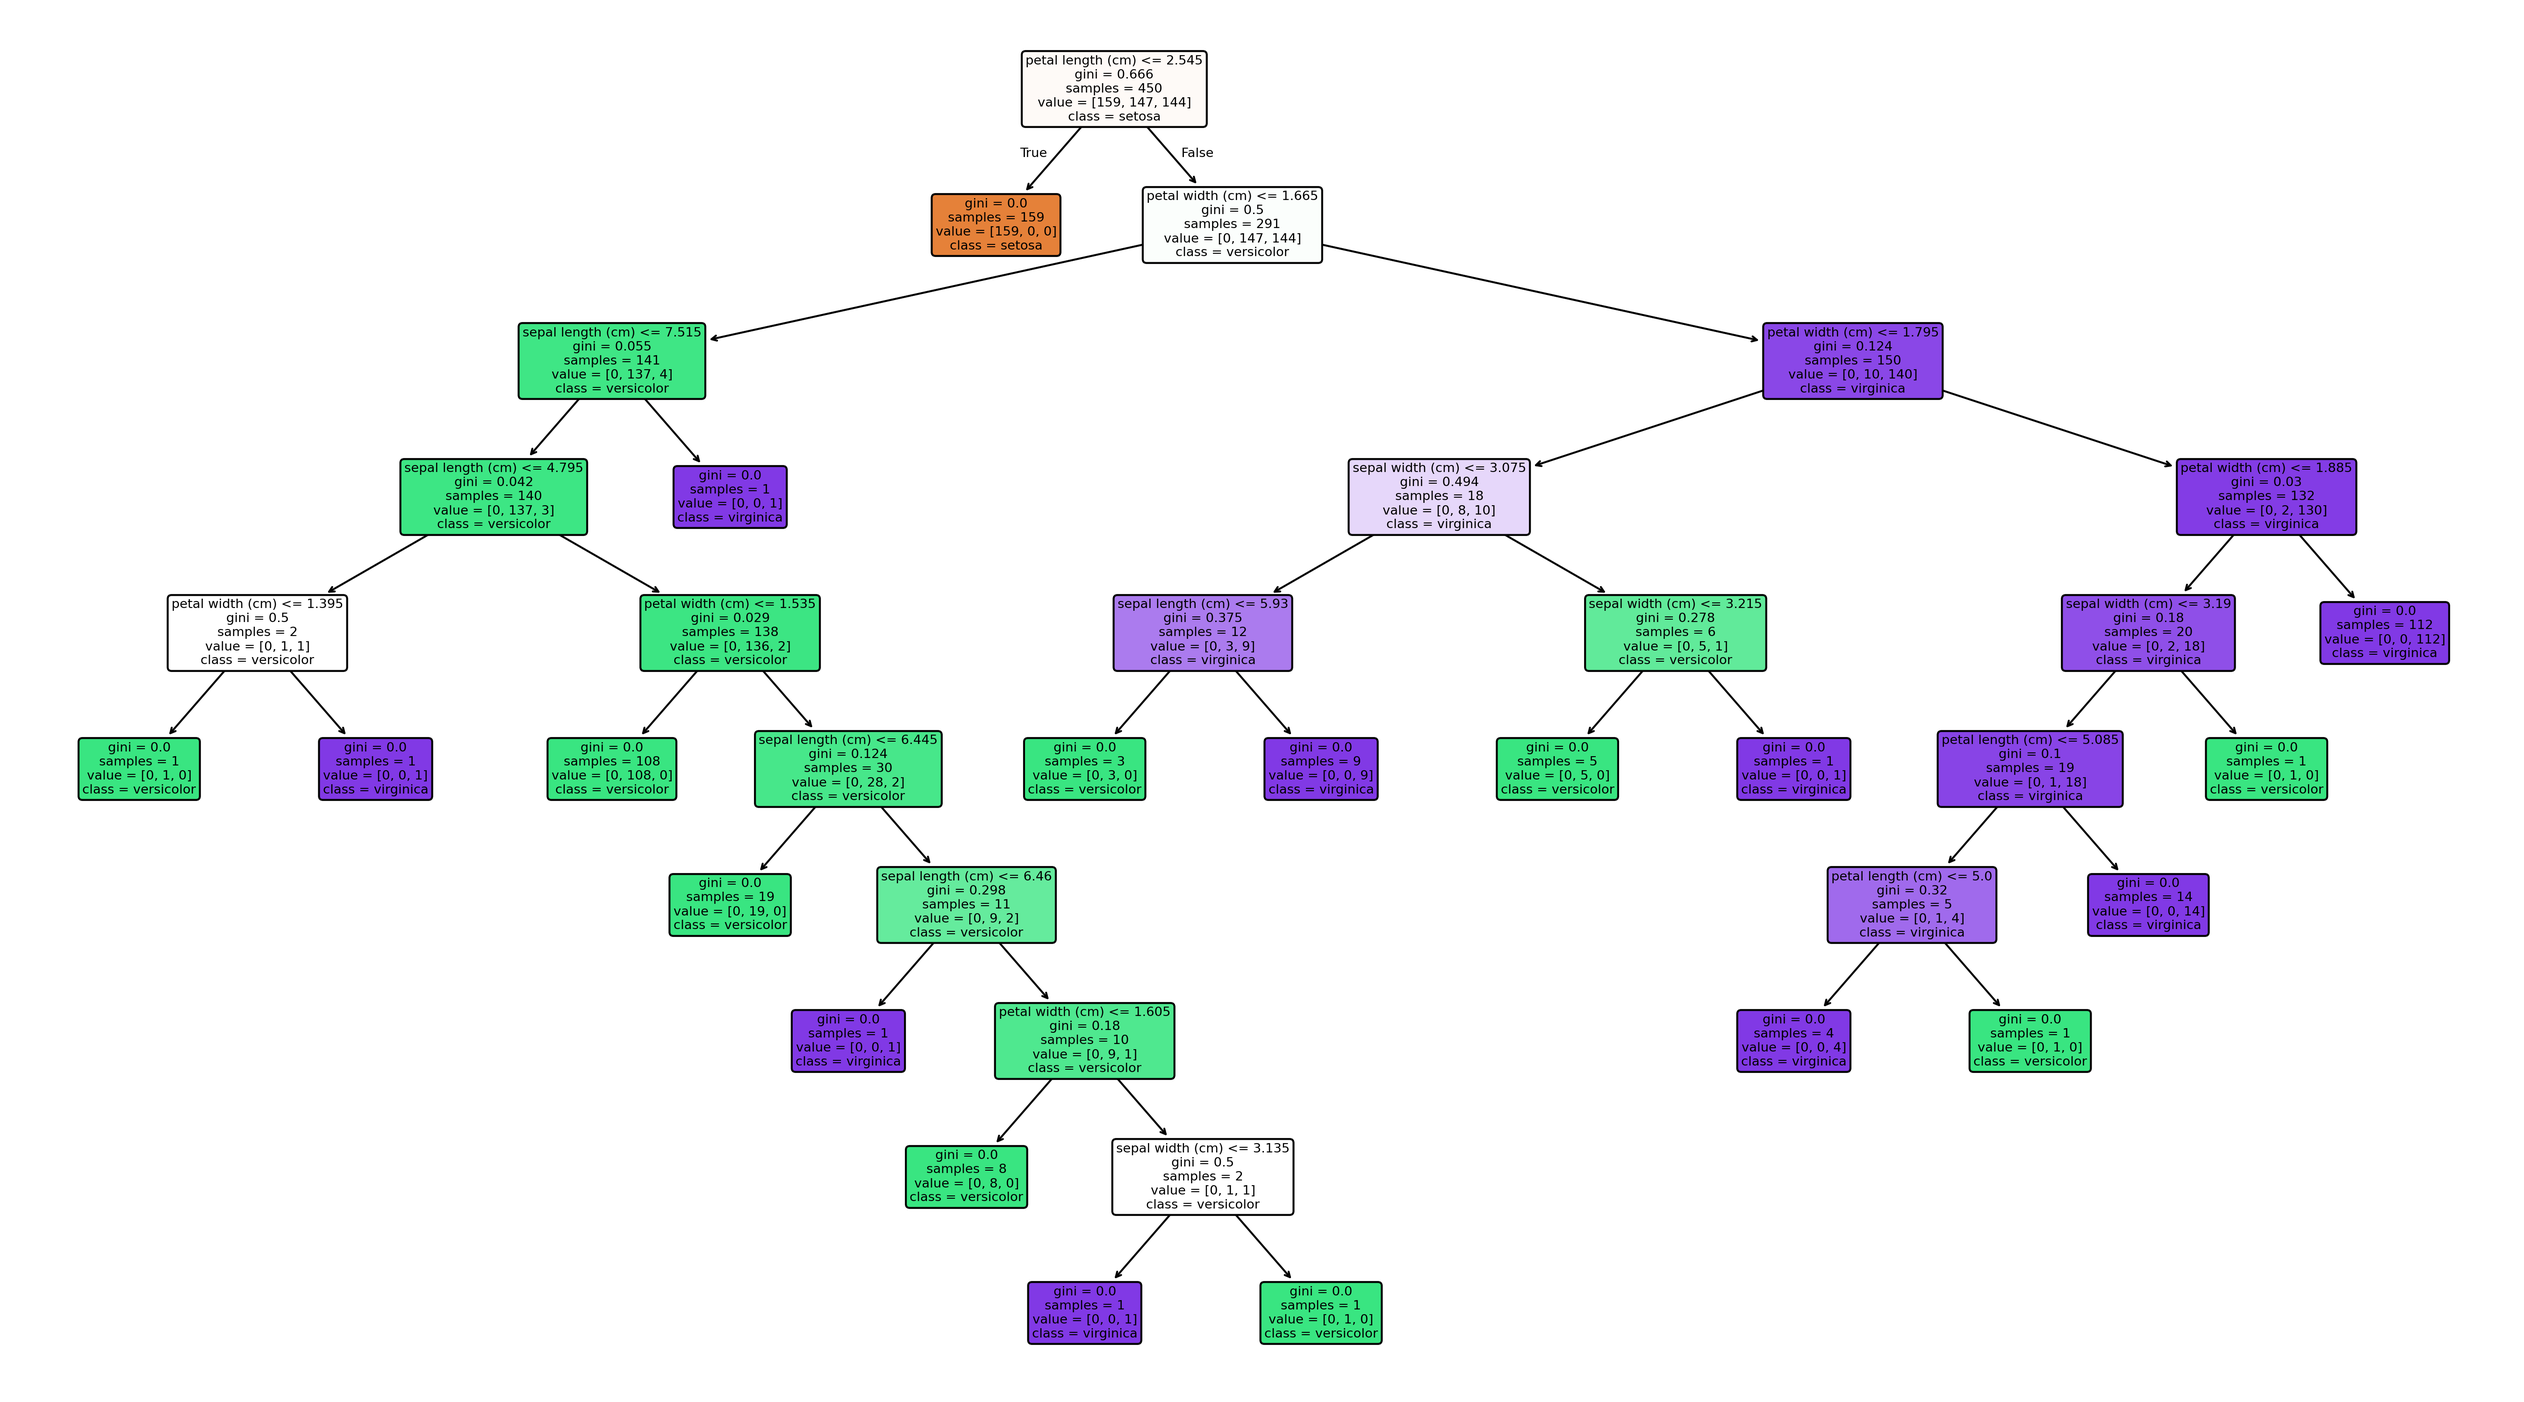
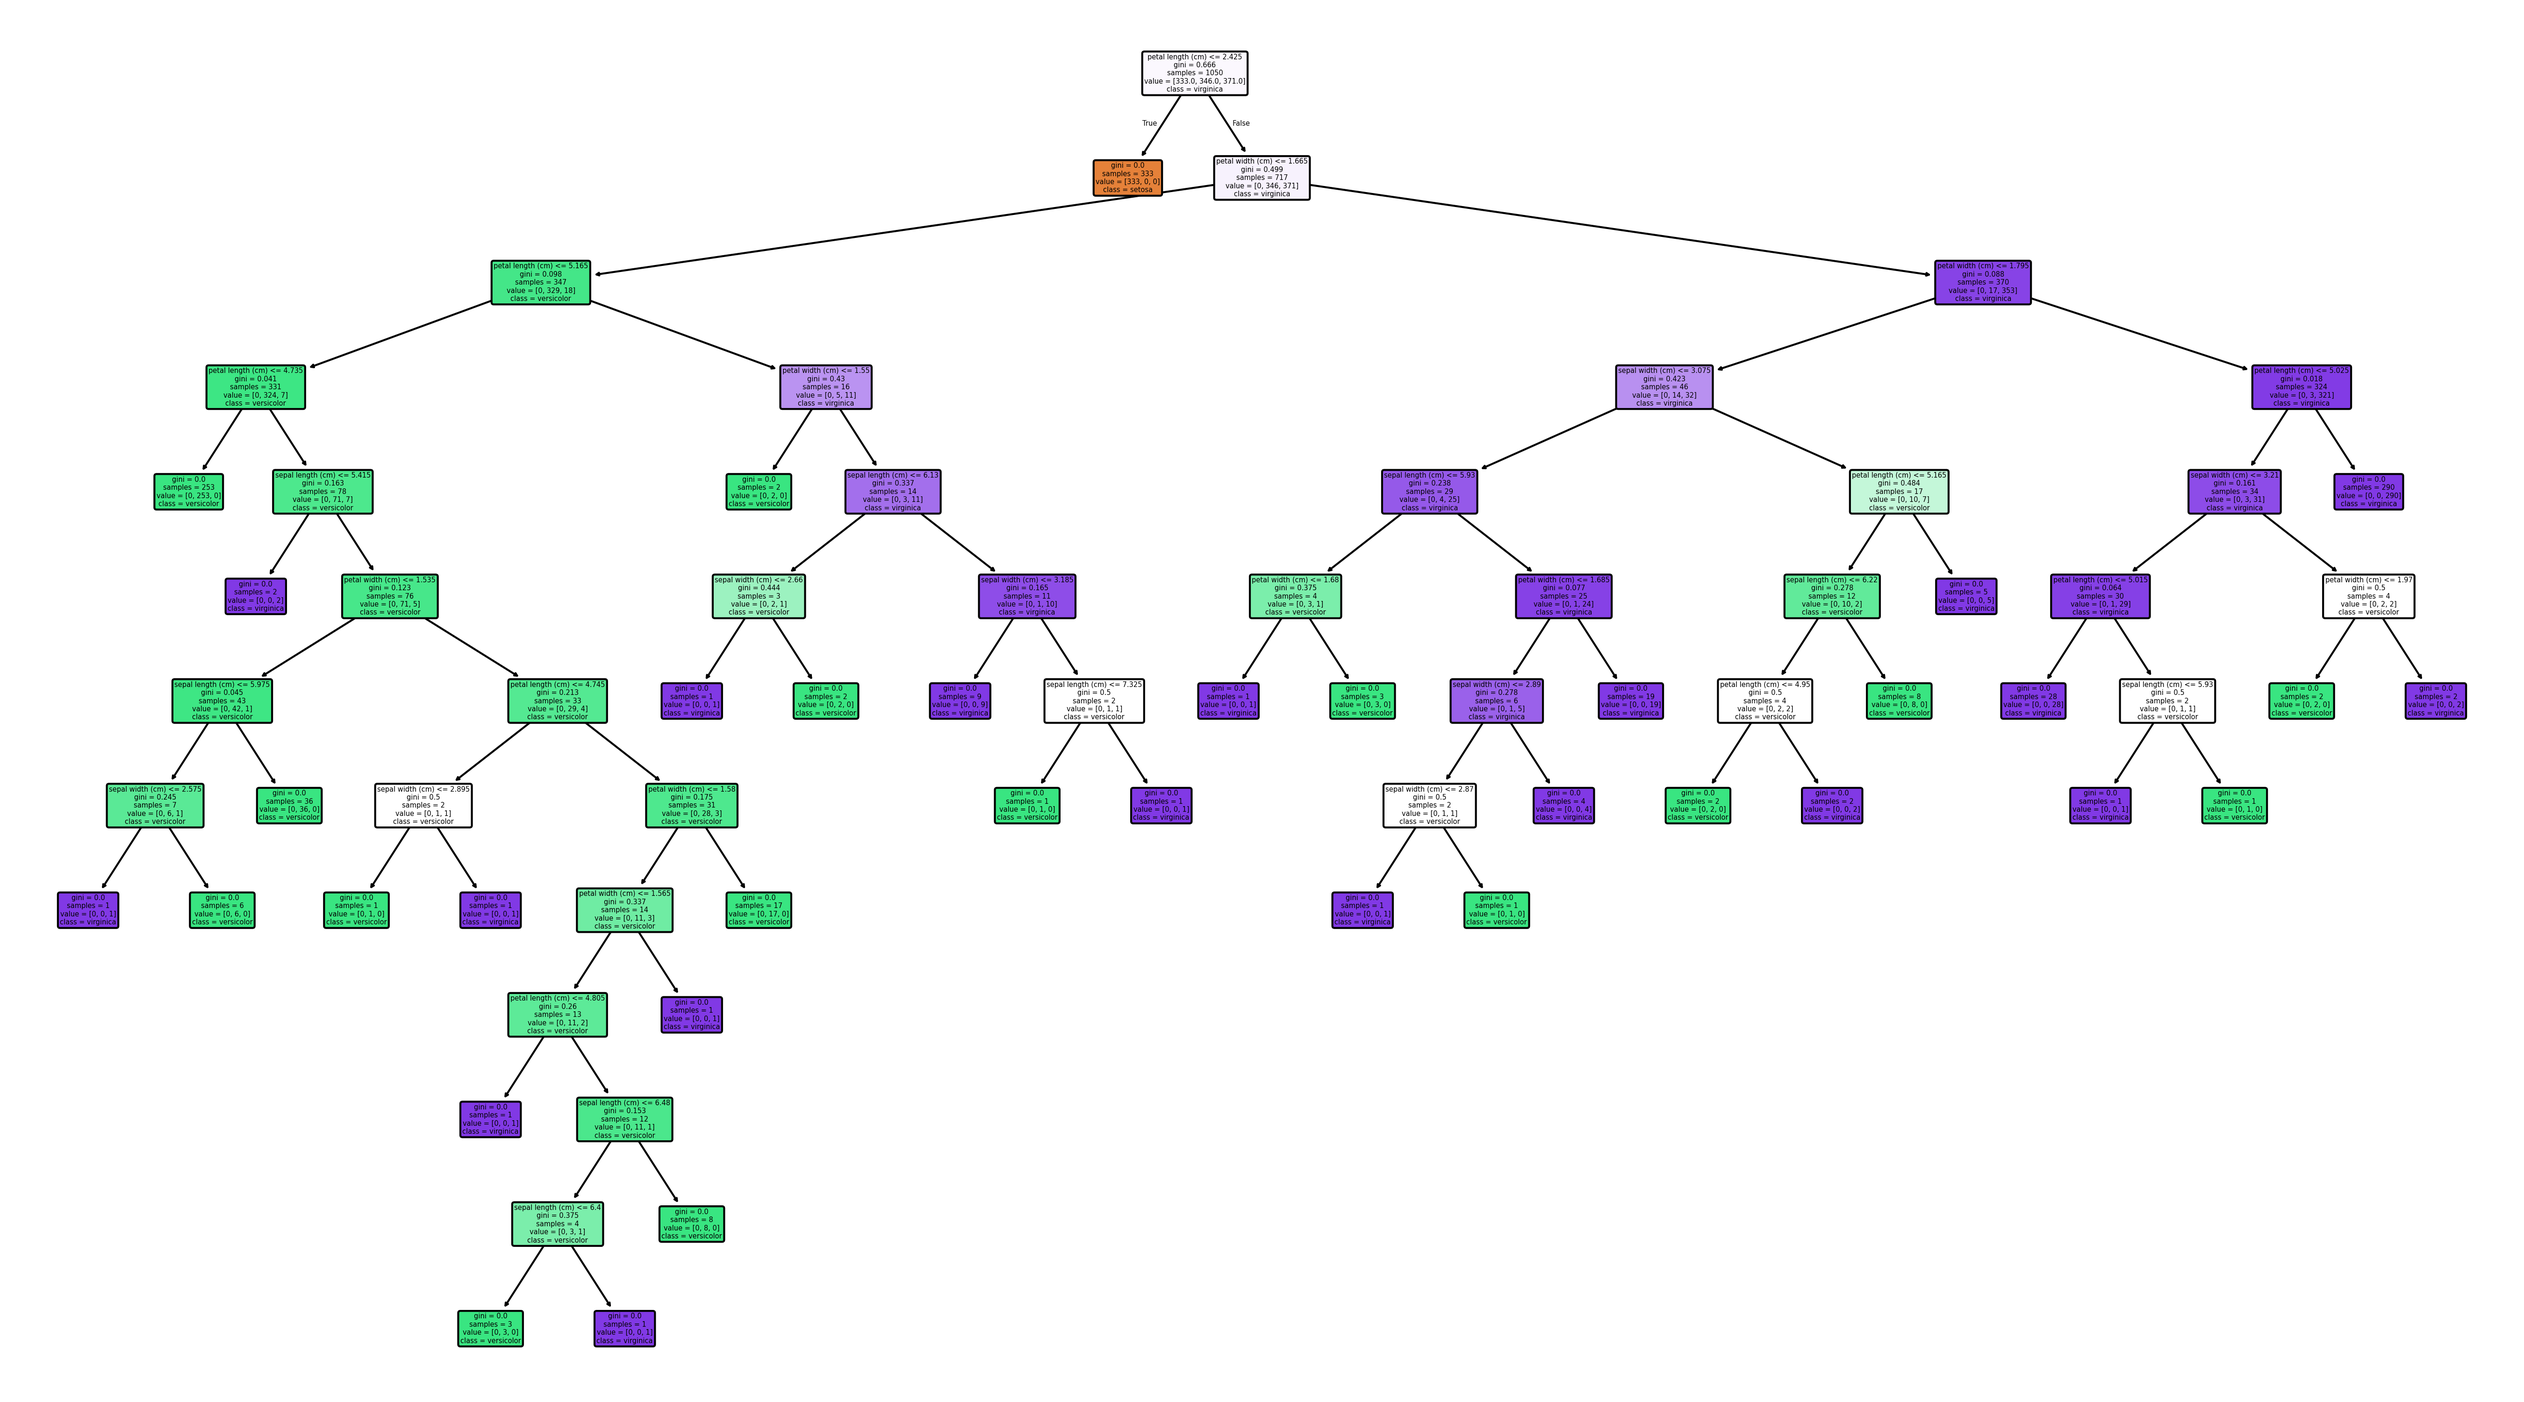
fixed issue with test size being too small

diff --git a/lab03/task01/human_categorisation.py b/lab03/task01/human_categorisation.py
@@ -3,7 +3,8 @@ from sklearn.model_selection import train_test_split
 
 df = pd.read_csv("../data/iris_big.csv")
 
-(train_set, test_set) = train_test_split(df, test_size=0.7, random_state=292583)
+(train_set, test_set) = train_test_split(df, test_size=0.3, random_state=292583)
+# 30% of the data is used for testing, 70% for training.
 
 def classify_iris(sepal_length: float, sepal_width: float, petal_length: float, petal_width: float) -> str:
     if (sepal_length < 6.3 and petal_length < 2.1 or (petal_width < 0.5 and sepal_width > 3.0)):
@@ -27,7 +28,7 @@ def classify_iris(sepal_length: float, sepal_width: float, petal_length: float, 
 # narrow petal (<0.5)       wide petal (>2.0)       medium petal (1.5-2.0)
 # this gave us around 90% accuracy.
 
-# Adjusting values individually and checking each change we got a maximum of: 97.33% (1022/1050)
+# Adjusting values individually and checking each change we got a maximum of: 98% (441/450)
 # Final values:
 # Setosa:                   virginica:              versicolor:
 # sepal length (<6.3)       sepal length (>7.27)    sepal length (6.3-7.27)              

diff --git a/lab03/task02/decision_trees.py b/lab03/task02/decision_trees.py
@@ -19,7 +19,7 @@ FEATURE_COLUMNS = [
 	"petal width (cm)",
 ]
 TARGET_COLUMN = "target_name"
-TEST_SIZE = 0.7
+TEST_SIZE = 0.3
 RANDOM_STATE = 292583
 TREE_PLOT_FILE = OUTPUT_DIR / "decision_tree_plot.png"
 

diff --git a/lab03/task02/task02_report.md b/lab03/task02/task02_report.md
@@ -18,34 +18,34 @@ DECISION TREE CLASSIFICATION - IRIS DATASET
 ==========================================================================================
 Input file: /root/io/computational-intelligence-class/lab03/data/iris_big.csv
 Full dataset shape: (1500, 5)
-Split configuration: train=30%, test=70%, random_state=292583
+Split configuration: train=70%, test=30%, random_state=292583
 
-Training set: [450 rows x 5 columns]
-Test set: [1050 rows x 5 columns]
+Training set: [1050 rows x 5 columns]
+Test set: [450 rows x 5 columns]
 
-X_train shape: (450, 4)
-y_train shape: (450,)
-X_test shape: (1050, 4)
-y_test shape: (1050,)
+X_train shape: (1050, 4)
+y_train shape: (1050,)
+X_test shape: (450, 4)
+y_test shape: (450,)
 
 Decision tree plot saved to: /root/io/computational-intelligence-class/lab03/task02/output/decision_tree_plot.png
 
-Good predictions: 1010/1050
-Wrong predictions: 40/1050
-Accuracy (score): 96.19%
+Good predictions: 440/450
+Wrong predictions: 10/450
+Accuracy (score): 97.78%
 
 Confusion matrix:
-			setosa  versicolor  virginica
-setosa         341           0          0
-versicolor       0         341         12
-virginica        0          28        328
+            setosa  versicolor  virginica
+setosa         167           0          0
+versicolor       0         150          4
+virginica        0           6        123
 ```
 
 ### Result summary:
-- Total test samples: `1050`
-- Good predictions: `1010`
-- Wrong predictions: `40`
-- Accuracy: `96.19%`
+- Total test samples: `450`
+- Good predictions: `440`
+- Wrong predictions: `10`
+- Accuracy: `97.78%`
 - Graphic tree output: `output/decision_tree_plot.png`
 
 ### Data interpretation:
@@ -62,59 +62,108 @@ virginica        0          28        328
 ***Decision tree (text form)***:
 ```yaml
 Decision tree (text form):
-|--- petal length (cm) <= 2.54
+Decision tree (text form):
+|--- petal length (cm) <= 2.42
 |   |--- class: setosa
-|--- petal length (cm) >  2.54
+|--- petal length (cm) >  2.42
 |   |--- petal width (cm) <= 1.66
-|   |   |--- sepal length (cm) <= 7.51
-|   |   |   |--- sepal length (cm) <= 4.80
-|   |   |   |   |--- petal width (cm) <= 1.39
-|   |   |   |   |   |--- class: versicolor
-|   |   |   |   |--- petal width (cm) >  1.39
+|   |   |--- petal length (cm) <= 5.16
+|   |   |   |--- petal length (cm) <= 4.73
+|   |   |   |   |--- class: versicolor
+|   |   |   |--- petal length (cm) >  4.73
+|   |   |   |   |--- sepal length (cm) <= 5.41
 |   |   |   |   |   |--- class: virginica
-|   |   |   |--- sepal length (cm) >  4.80
-|   |   |   |   |--- petal width (cm) <= 1.53
-|   |   |   |   |   |--- class: versicolor
-|   |   |   |   |--- petal width (cm) >  1.53
-|   |   |   |   |   |--- sepal length (cm) <= 6.44
-|   |   |   |   |   |   |--- class: versicolor
-|   |   |   |   |   |--- sepal length (cm) >  6.44
-|   |   |   |   |   |   |--- sepal length (cm) <= 6.46
-|   |   |   |   |   |   |   |--- class: virginica
-|   |   |   |   |   |   |--- sepal length (cm) >  6.46
-|   |   |   |   |   |   |   |--- petal width (cm) <= 1.61
+|   |   |   |   |--- sepal length (cm) >  5.41
+|   |   |   |   |   |--- petal width (cm) <= 1.53
+|   |   |   |   |   |   |--- sepal length (cm) <= 5.97
+|   |   |   |   |   |   |   |--- sepal width (cm) <= 2.58
+|   |   |   |   |   |   |   |   |--- class: virginica
+|   |   |   |   |   |   |   |--- sepal width (cm) >  2.58
 |   |   |   |   |   |   |   |   |--- class: versicolor
-|   |   |   |   |   |   |   |--- petal width (cm) >  1.61
-|   |   |   |   |   |   |   |   |--- sepal width (cm) <= 3.13
+|   |   |   |   |   |   |--- sepal length (cm) >  5.97
+|   |   |   |   |   |   |   |--- class: versicolor
+|   |   |   |   |   |--- petal width (cm) >  1.53
+|   |   |   |   |   |   |--- petal length (cm) <= 4.74
+|   |   |   |   |   |   |   |--- sepal width (cm) <= 2.89
+|   |   |   |   |   |   |   |   |--- class: versicolor
+|   |   |   |   |   |   |   |--- sepal width (cm) >  2.89
+|   |   |   |   |   |   |   |   |--- class: virginica
+|   |   |   |   |   |   |--- petal length (cm) >  4.74
+|   |   |   |   |   |   |   |--- petal width (cm) <= 1.58
+|   |   |   |   |   |   |   |   |--- petal width (cm) <= 1.56
+|   |   |   |   |   |   |   |   |   |--- petal length (cm) <= 4.81
+|   |   |   |   |   |   |   |   |   |   |--- class: virginica
+|   |   |   |   |   |   |   |   |   |--- petal length (cm) >  4.81
+|   |   |   |   |   |   |   |   |   |   |--- sepal length (cm) <= 6.48
+|   |   |   |   |   |   |   |   |   |   |   |--- truncated branch of depth 2
+|   |   |   |   |   |   |   |   |   |   |--- sepal length (cm) >  6.48
+|   |   |   |   |   |   |   |   |   |   |   |--- class: versicolor
+|   |   |   |   |   |   |   |   |--- petal width (cm) >  1.56
 |   |   |   |   |   |   |   |   |   |--- class: virginica
-|   |   |   |   |   |   |   |   |--- sepal width (cm) >  3.13
-|   |   |   |   |   |   |   |   |   |--- class: versicolor
-|   |   |--- sepal length (cm) >  7.51
-|   |   |   |--- class: virginica
+|   |   |   |   |   |   |   |--- petal width (cm) >  1.58
+|   |   |   |   |   |   |   |   |--- class: versicolor
+|   |   |--- petal length (cm) >  5.16
+|   |   |   |--- petal width (cm) <= 1.55
+|   |   |   |   |--- class: versicolor
+|   |   |   |--- petal width (cm) >  1.55
+|   |   |   |   |--- sepal length (cm) <= 6.13
+|   |   |   |   |   |--- sepal width (cm) <= 2.66
+|   |   |   |   |   |   |--- class: virginica
+|   |   |   |   |   |--- sepal width (cm) >  2.66
+|   |   |   |   |   |   |--- class: versicolor
+|   |   |   |   |--- sepal length (cm) >  6.13
+|   |   |   |   |   |--- sepal width (cm) <= 3.18
+|   |   |   |   |   |   |--- class: virginica
+|   |   |   |   |   |--- sepal width (cm) >  3.18
+|   |   |   |   |   |   |--- sepal length (cm) <= 7.33
+|   |   |   |   |   |   |   |--- class: versicolor
+|   |   |   |   |   |   |--- sepal length (cm) >  7.33
+|   |   |   |   |   |   |   |--- class: virginica
 |   |--- petal width (cm) >  1.66
 |   |   |--- petal width (cm) <= 1.79
 |   |   |   |--- sepal width (cm) <= 3.07
 |   |   |   |   |--- sepal length (cm) <= 5.93
-|   |   |   |   |   |--- class: versicolor
+|   |   |   |   |   |--- petal width (cm) <= 1.68
+|   |   |   |   |   |   |--- class: virginica
+|   |   |   |   |   |--- petal width (cm) >  1.68
+|   |   |   |   |   |   |--- class: versicolor
 |   |   |   |   |--- sepal length (cm) >  5.93
-|   |   |   |   |   |--- class: virginica
+|   |   |   |   |   |--- petal width (cm) <= 1.69
+|   |   |   |   |   |   |--- sepal width (cm) <= 2.89
+|   |   |   |   |   |   |   |--- sepal width (cm) <= 2.87
+|   |   |   |   |   |   |   |   |--- class: virginica
+|   |   |   |   |   |   |   |--- sepal width (cm) >  2.87
+|   |   |   |   |   |   |   |   |--- class: versicolor
+|   |   |   |   |   |   |--- sepal width (cm) >  2.89
+|   |   |   |   |   |   |   |--- class: virginica
+|   |   |   |   |   |--- petal width (cm) >  1.69
+|   |   |   |   |   |   |--- class: virginica
 |   |   |   |--- sepal width (cm) >  3.07
-|   |   |   |   |--- sepal width (cm) <= 3.22
-|   |   |   |   |   |--- class: versicolor
-|   |   |   |   |--- sepal width (cm) >  3.22
+|   |   |   |   |--- petal length (cm) <= 5.16
+|   |   |   |   |   |--- sepal length (cm) <= 6.22
+|   |   |   |   |   |   |--- petal length (cm) <= 4.95
+|   |   |   |   |   |   |   |--- class: versicolor
+|   |   |   |   |   |   |--- petal length (cm) >  4.95
+|   |   |   |   |   |   |   |--- class: virginica
+|   |   |   |   |   |--- sepal length (cm) >  6.22
+|   |   |   |   |   |   |--- class: versicolor
+|   |   |   |   |--- petal length (cm) >  5.16
 |   |   |   |   |   |--- class: virginica
 |   |   |--- petal width (cm) >  1.79
-|   |   |   |--- petal width (cm) <= 1.88
-|   |   |   |   |--- sepal width (cm) <= 3.19
-|   |   |   |   |   |--- petal length (cm) <= 5.09
-|   |   |   |   |   |   |--- petal length (cm) <= 5.00
-|   |   |   |   |   |   |   |--- class: virginica
-|   |   |   |   |   |   |--- petal length (cm) >  5.00
-|   |   |   |   |   |   |   |--- class: versicolor
-|   |   |   |   |   |--- petal length (cm) >  5.09
+|   |   |   |--- petal length (cm) <= 5.03
+|   |   |   |   |--- sepal width (cm) <= 3.21
+|   |   |   |   |   |--- petal length (cm) <= 5.02
 |   |   |   |   |   |   |--- class: virginica
-|   |   |   |   |--- sepal width (cm) >  3.19
-|   |   |   |   |   |--- class: versicolor
-|   |   |   |--- petal width (cm) >  1.88
+|   |   |   |   |   |--- petal length (cm) >  5.02
+|   |   |   |   |   |   |--- sepal length (cm) <= 5.93
+|   |   |   |   |   |   |   |--- class: virginica
+|   |   |   |   |   |   |--- sepal length (cm) >  5.93
+|   |   |   |   |   |   |   |--- class: versicolor
+|   |   |   |   |--- sepal width (cm) >  3.21
+|   |   |   |   |   |--- petal width (cm) <= 1.97
+|   |   |   |   |   |   |--- class: versicolor
+|   |   |   |   |   |--- petal width (cm) >  1.97
+|   |   |   |   |   |   |--- class: virginica
+|   |   |   |--- petal length (cm) >  5.03
 |   |   |   |   |--- class: virginica
 ```

diff --git a/lab03/task01/task01_report.md b/lab03/task01/task01_report.md
@@ -11,18 +11,18 @@ python3 human_categorization.py
 
 ### Console output
 ```yaml
-Good predictions: 1022/1050
-Wrong predictions: 28/1050
+Good predictions: 441/450
+Wrong predictions: 9/450
 
 
-Accuracy: 97.33%
+Accuracy: 98.00%
 ==========================================================================================
       sepal length (cm)  sepal width (cm)  petal length (cm)  petal width (cm) target_name
-344                5.62              3.91               1.83              0.46      setosa
-481                5.12              3.77               1.52              0.16      setosa
-1099               7.48              3.31               6.04              2.36   virginica
-717                5.81              2.97               4.08              1.20  versicolor
-1435               6.58              2.85               5.83              1.97   virginica
+1029               7.25              3.06               5.84              1.68   virginica
+852                6.98              2.92               4.98              1.54  versicolor
+533                6.07              2.77               5.18              1.64  versicolor
+990                6.60              3.12               4.62              1.57  versicolor
+490                5.60              4.02               1.26              0.26      setosa
 ...                 ...               ...                ...               ...         ...
 741                6.02              2.61               3.83              0.96  versicolor
 1262               6.92              3.18               5.39              2.23   virginica
@@ -30,15 +30,15 @@ Accuracy: 97.33%
 1012               6.82              3.03               5.58              2.12   virginica
 1323               7.69              2.80               5.89              1.69   virginica
 
-[450 rows x 5 columns]
+[1050 rows x 5 columns]
 ```
 
 ### Result summary:
-- Total samples: `1050`
-- Good predictions: `1022`
-- Wrong predictions: `28`
-- Accuracy: `97.33%`
+- Total samples: `450`
+- Good predictions: `441`
+- Wrong predictions: `9`
+- Accuracy: `98.00%`
 
 ### Data interpretation:
-- The rule-based categorization approach achieved a high accuracy of `97.33%` on the clean Iris dataset.
+- The rule-based categorization approach achieved a high accuracy of `98.00%` on the clean Iris dataset.
 - The misclassified samples are mostly due to overlapping feature values between `versicolor` and `virginica`, which are known to have similar measurements in some cases.
